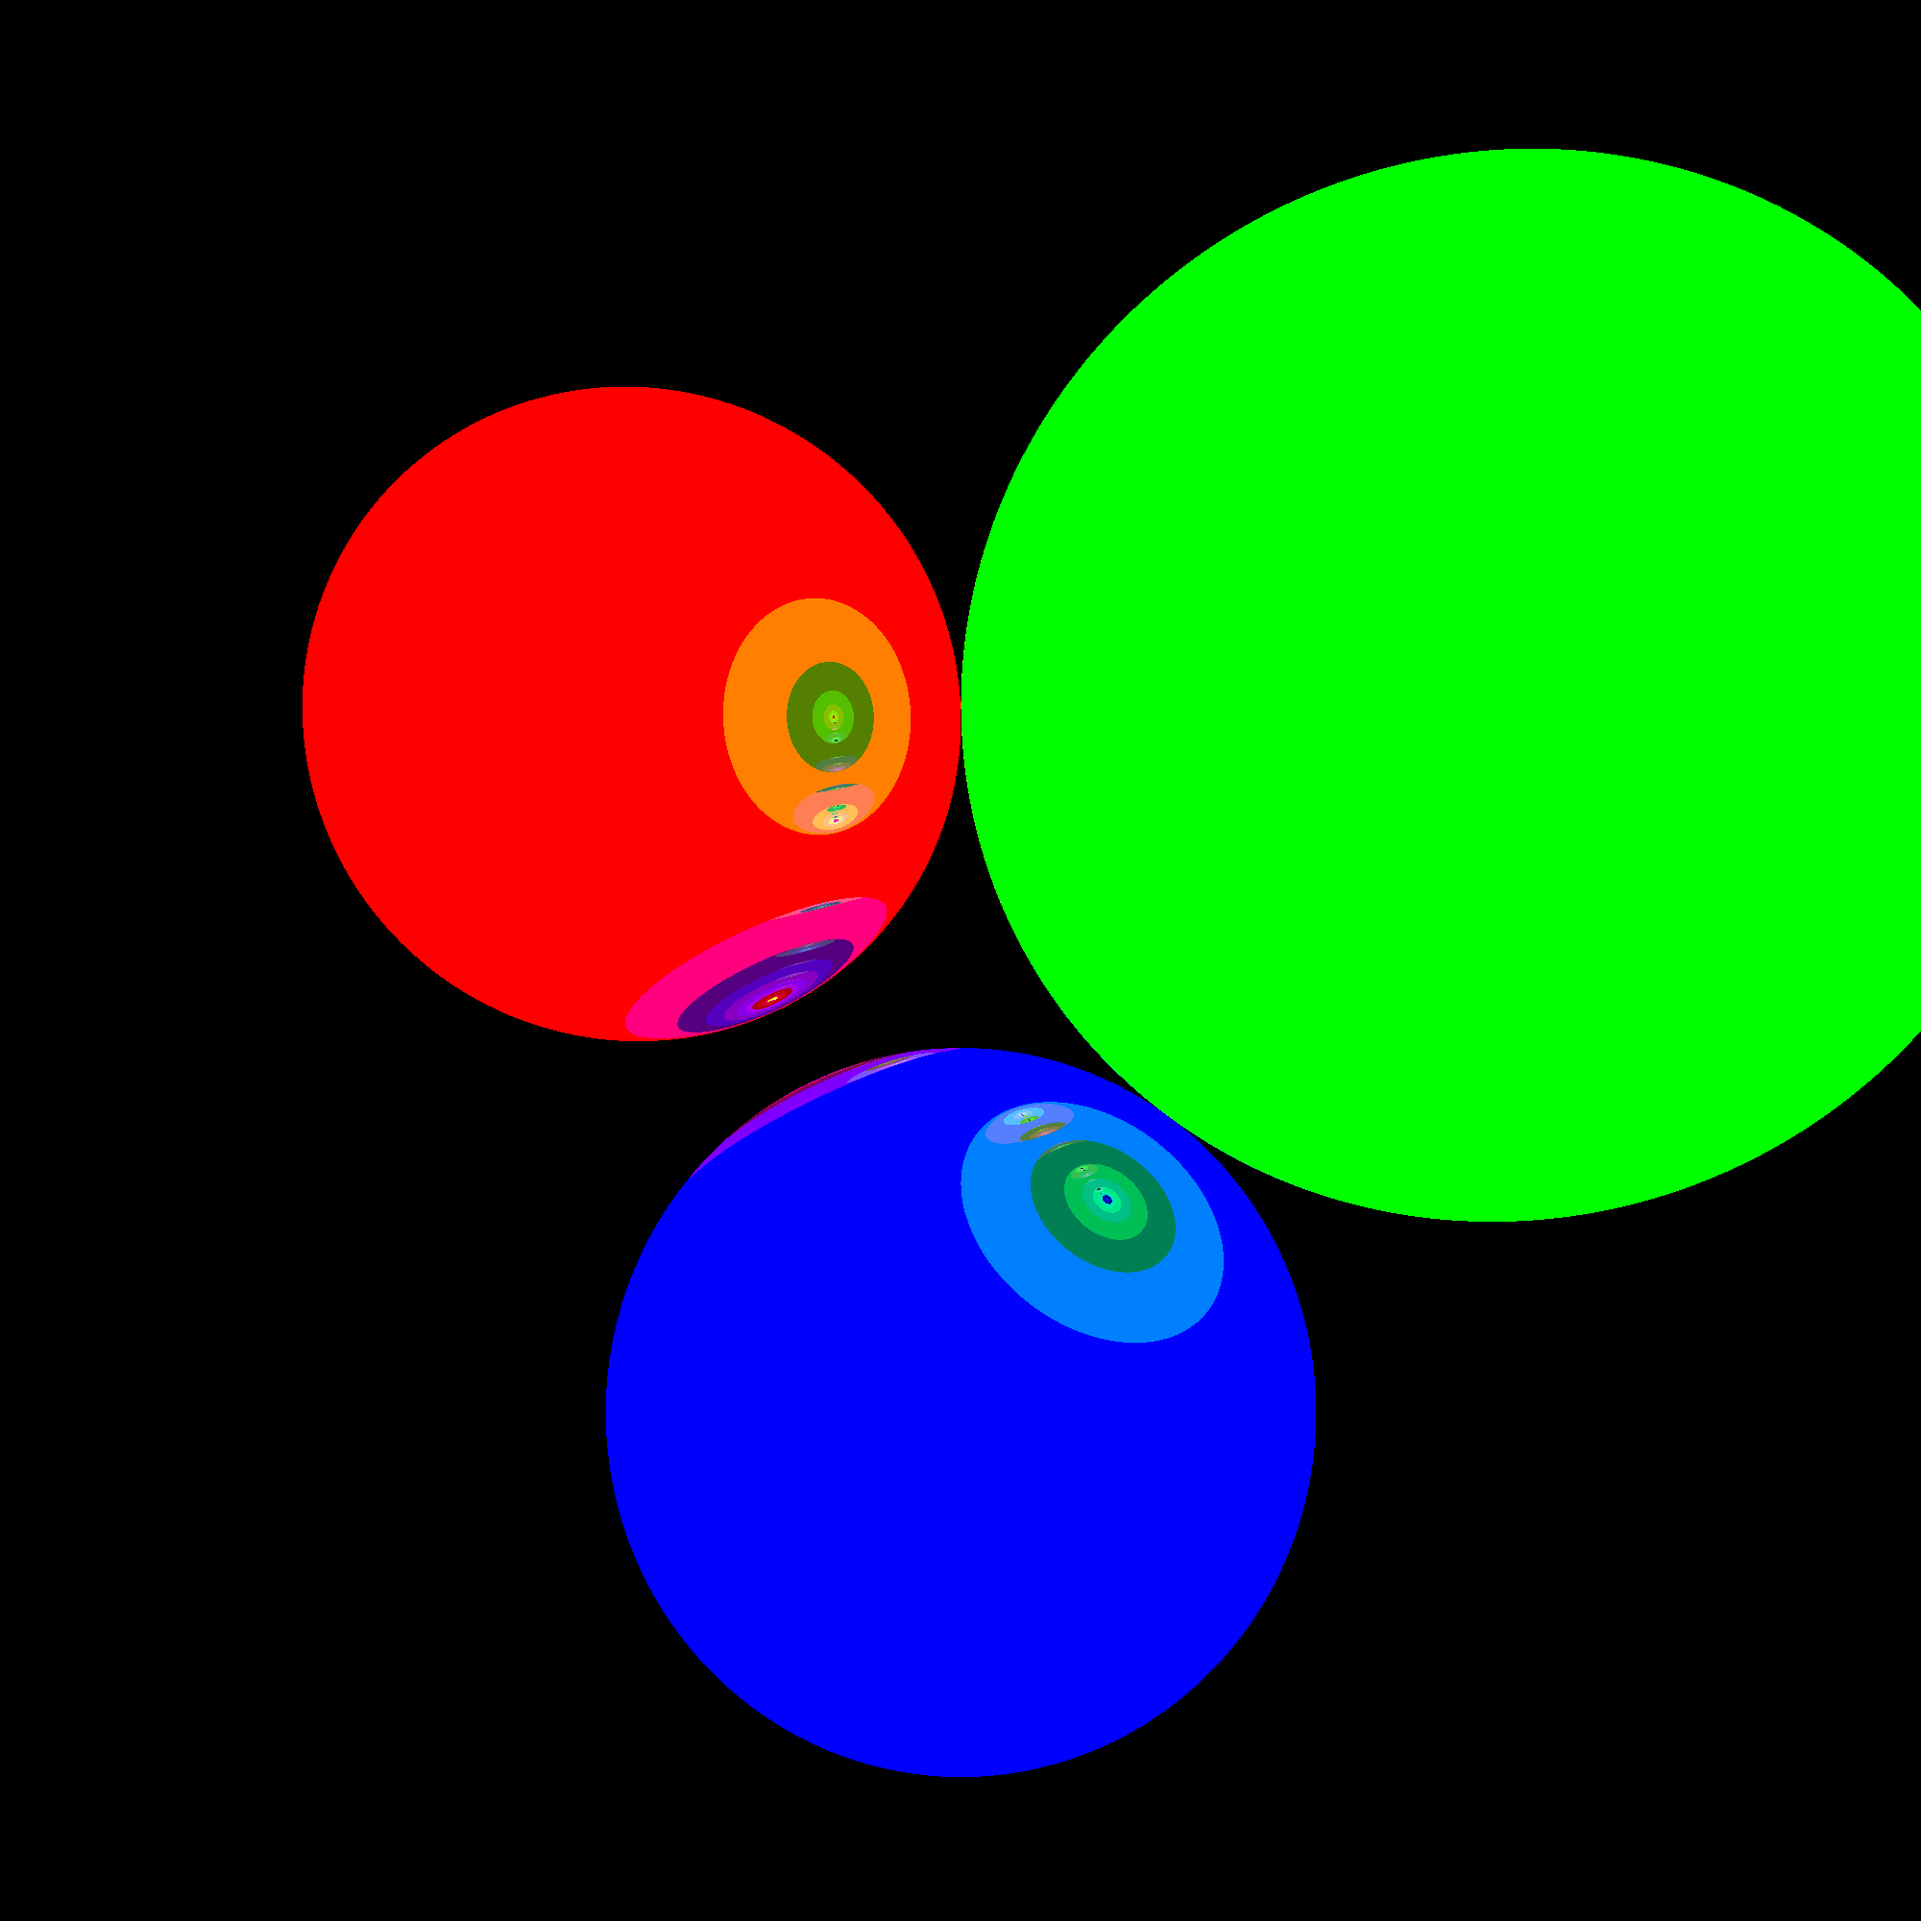
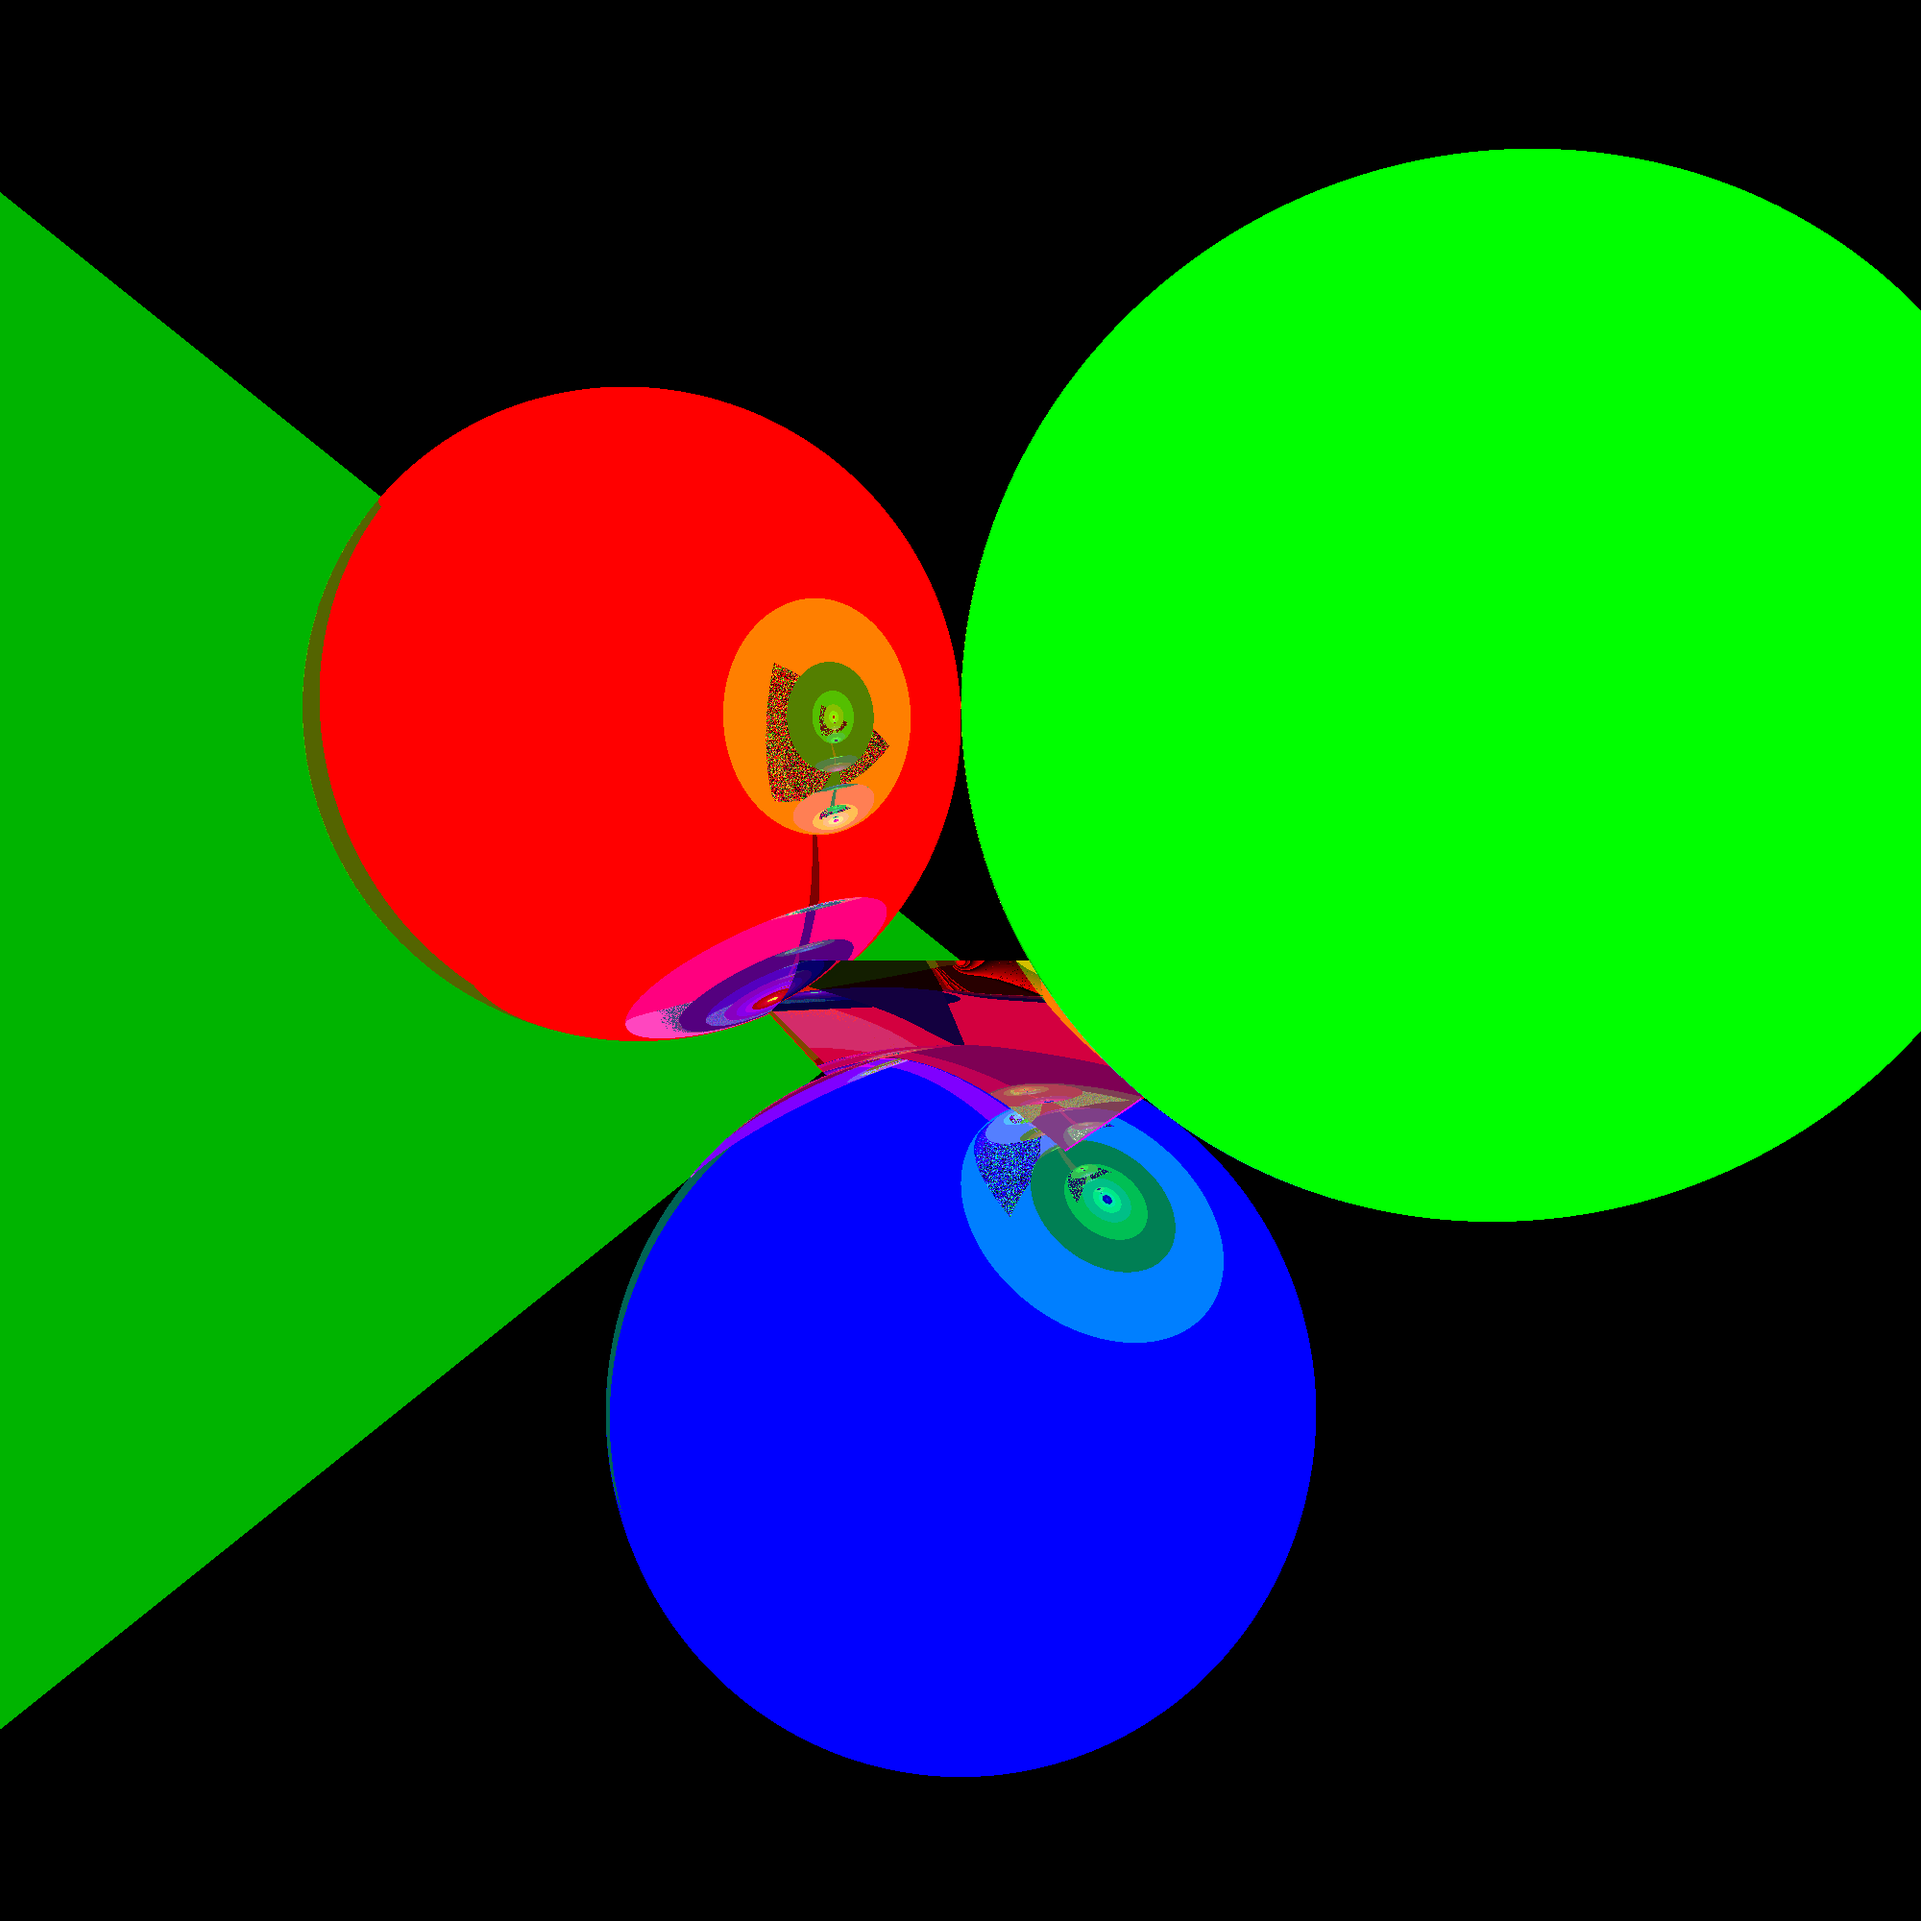
Minor Fixes

Changed region(s): [[0.0, 0.093, 0.589, 0.899]]

diff --git a/Rendering.h b/Rendering.h
@@ -56,8 +56,8 @@ Vec3 CalculateRayColour(Ray R, array_view<SceneObject> Objs, int ObjsSize) restr
 }
 
 void RenderRow(float y, int mStart, SceneObject Objs[], int ObjsSize, unsigned char rgb[]) {
-	Ray Rs[ViewWS];
-	unsigned int rgbTemp[MaxChunkSize * 3];
+	Ray* Rs = (Ray*)malloc(ViewWS*sizeof(Ray));
+	unsigned int* rgbTemp = (unsigned int*)malloc(MaxChunkSize*12);
 
 	float x = -ViewWidth;
 	int chunkPos = 0, memPos = 0, chunk = 0;
@@ -94,15 +94,18 @@ void RenderRow(float y, int mStart, SceneObject Objs[], int ObjsSize, unsigned c
 		
 		chunk++;
 	}
+
+	free(Rs);
+	free(rgbTemp);
 }
 
-unsigned char* RenderScene(SceneObject Objs[]) {
+unsigned char* RenderScene(SceneObject Objs[], int ObjsSize) {
 	int i = 0;
 
 	unsigned char* rgb = (unsigned char*)malloc(imageMemory);
 
 	for (float y = -ViewWidth; y < ViewWidth; y += ViewSteps, i++) {
-		RenderRow(y, i * ViewWS, Objs, 3, rgb);
+		RenderRow(y, i * ViewWS, Objs, ObjsSize, rgb);
 	}
 
 	return rgb;

diff --git a/RayTracing.cpp b/RayTracing.cpp
@@ -33,17 +33,12 @@ int main(int argc, char** argv)
 	SceneObject Objs[] = {
 		SceneObject(Vec3(4, 2, -5), Vec3(0, 255, 0), 4),
 		SceneObject(Vec3(-4, 3, 4), Vec3(255, 0, 0), 4),
-		SceneObject(Vec3(0, -5, 2), Vec3(0, 0, 255), 4)
+		SceneObject(Vec3(0, -5, 2), Vec3(0, 0, 255), 4),
+        SceneObject(Vec3(0, -3, 2), Vec3(3, 0, -5), Vec3(-3, 0, 4), Vec3(255, 0, 0)),
+        SceneObject(Vec3(-10, -8, 0), Vec3(-10, 8, 0), Vec3(00, 0, 20), Vec3(0, 120, 0))
 	};
-
-	/*Mesh* M = new Mesh();
-
-	M->Triangles.Add(new Triangle(Vec3(0, -3, 2), Vec3(3, 0, -5), Vec3(-3, 0, 4), Vec3(255, 0, 0)));
-	M->Triangles.Add(new Triangle(Vec3(-10, -8, 0), Vec3(-10, 8, 0), Vec3(00, 0, 20), Vec3(0, 120, 0)));
-
-	Objs.Add(M);*/
 	
-	unsigned char* rgb = RenderScene(Objs);
+	unsigned char* rgb = RenderScene(Objs,5);
 
 	stbi_write_png("image.png", 2 * ViewWidth / ViewSteps, 2 * ViewWidth / ViewSteps, 3, rgb, 0);
 }

diff --git a/vec3.h b/vec3.h
@@ -37,7 +37,7 @@ public:
 		return N;
 	}
 
-	Vec3 operator+= (Vec3 V) restrict(amp) {
+	void operator+= (Vec3 V) restrict(amp) {
 		x += V.x;
 		y += V.y;
 		z += V.z;
